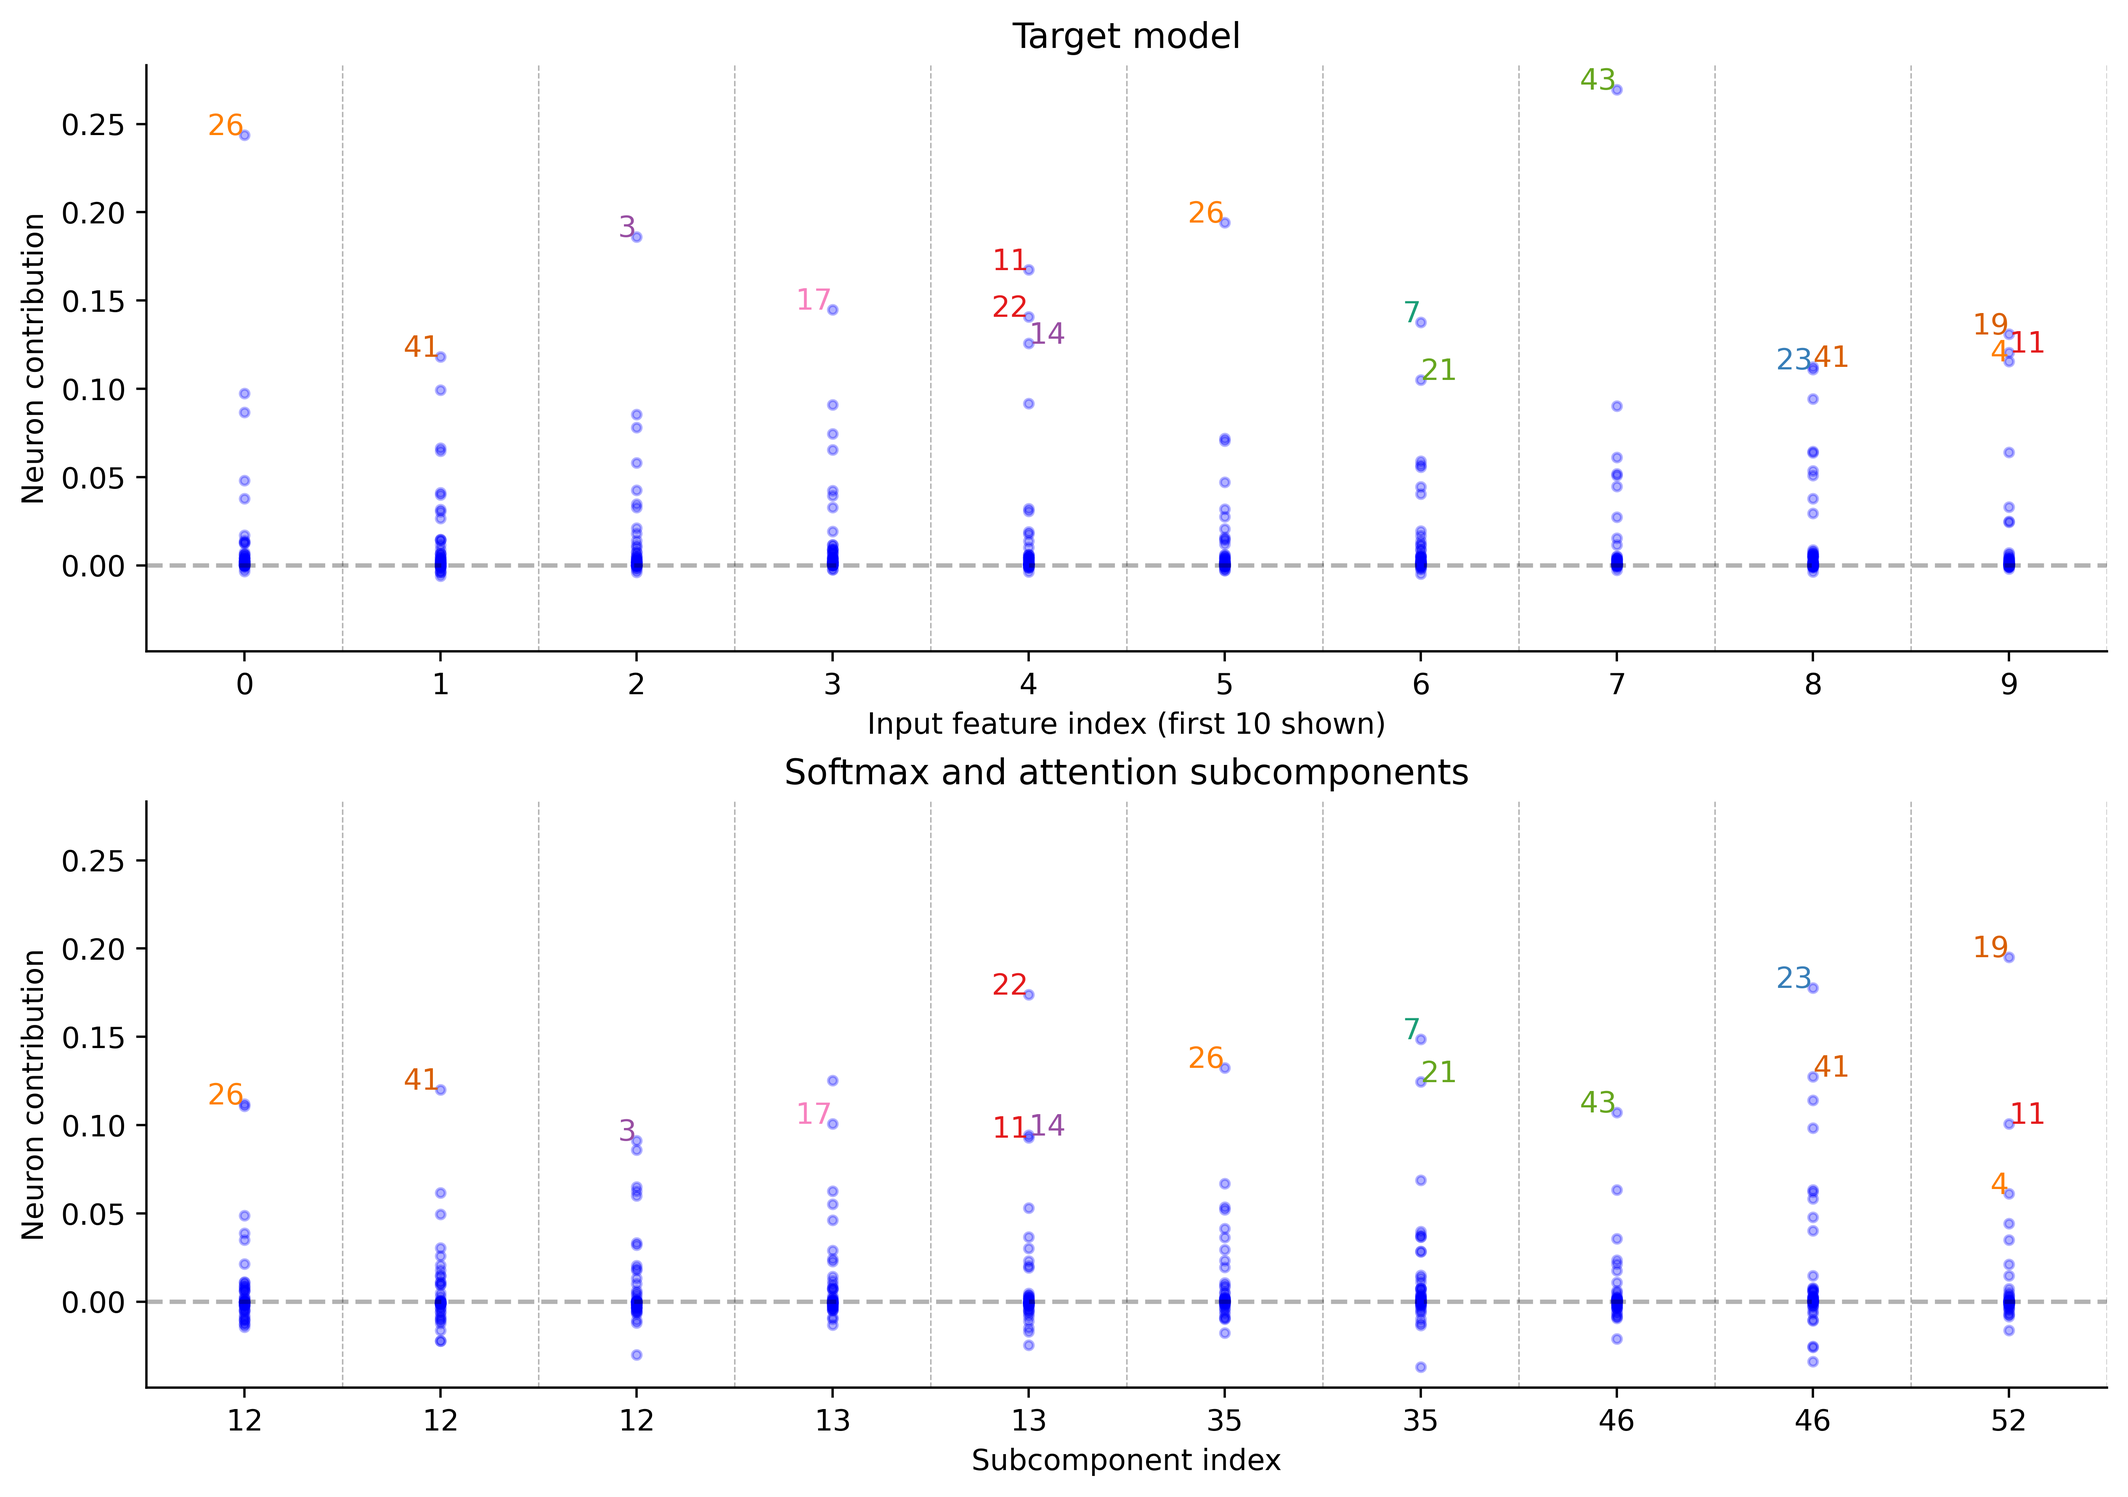
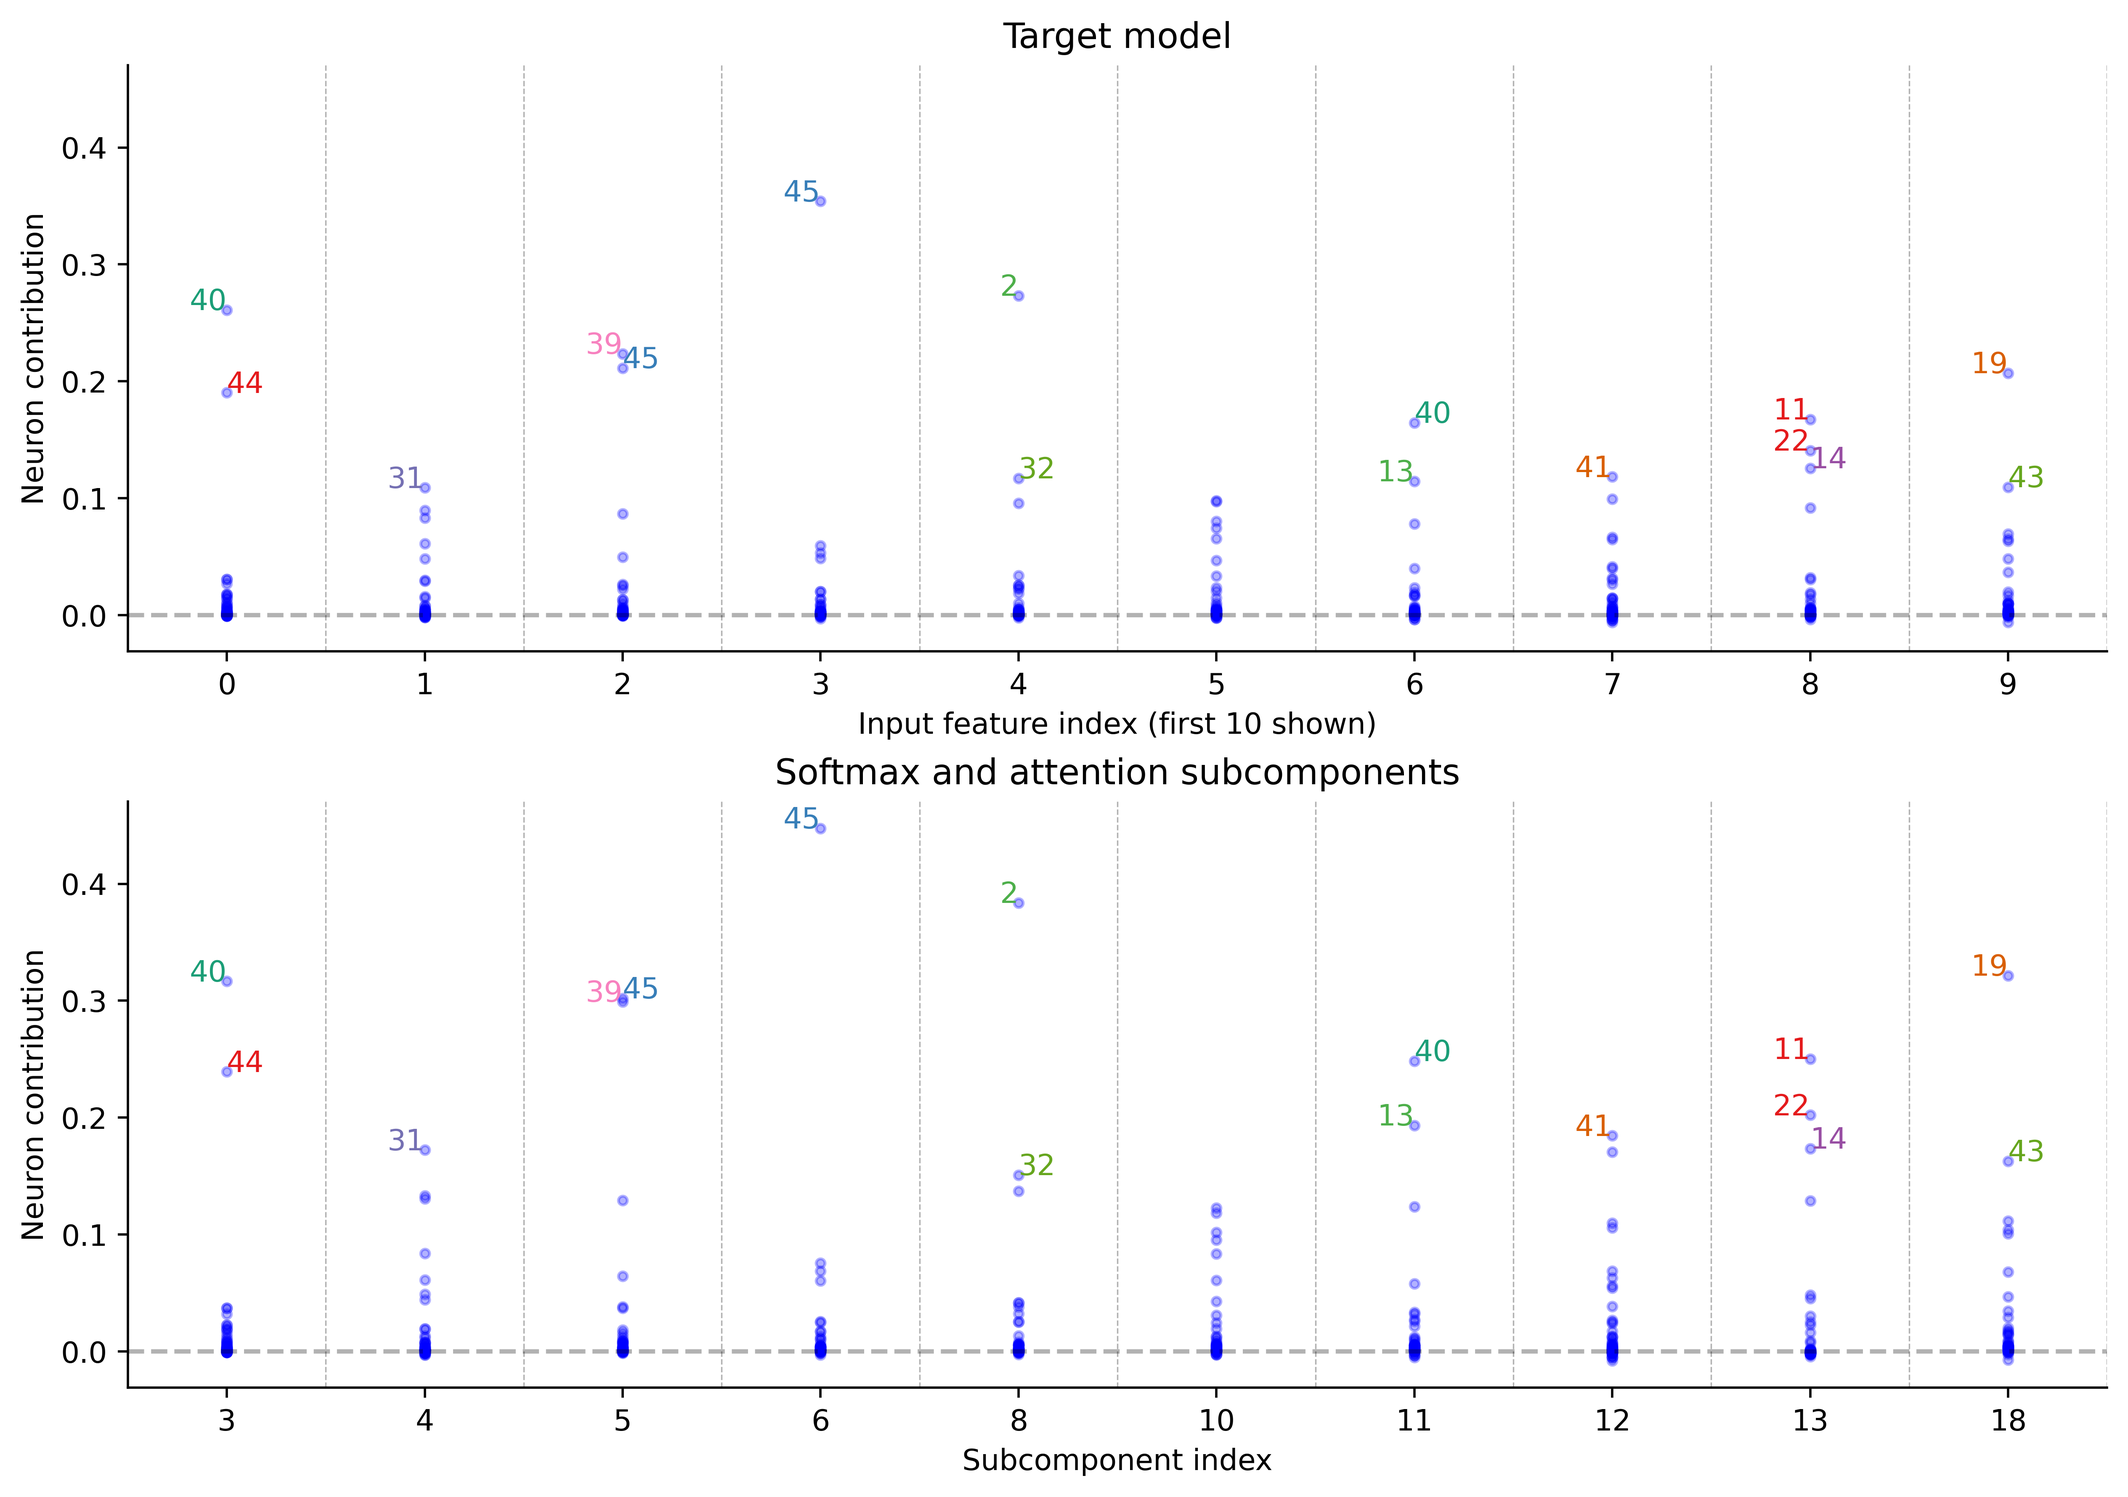
a

diff --git a/spd/experiments/resid_mlp/resid_mlp_interp.py b/spd/experiments/resid_mlp/resid_mlp_interp.py
@@ -428,90 +428,6 @@ def compute_spd_weight_neuron_contributions(
     return relu_conns_spd[:, :n_features, :, :]
 
 
-# def plot_spd_feature_contributions_truncated(
-#     components: dict[str, LinearComponent],
-#     target_model: ResidualMLP,
-#     n_features: int | None = 50,
-# ):
-#     n_layers = target_model.config.n_layers
-#     n_features = target_model.config.n_features if n_features is None else n_features
-#     d_mlp = target_model.config.d_mlp
-
-#     # Assert that there are no biases
-#     assert not target_model.config.in_bias and not target_model.config.out_bias, (
-#         "Biases are not supported for these plots"
-#     )
-
-#     # --- Compute neuron contribution tensors ---
-#     relu_conns: Float[Tensor, "n_layers n_features d_mlp"] = (
-#         compute_target_weight_neuron_contributions(
-#             target_model=target_model,
-#             n_features=n_features,
-#         )
-#     )
-
-#     relu_conns_spd: Float[Tensor, "n_layers n_features C d_mlp"] = (
-#         compute_spd_weight_neuron_contributions(
-#             components=components,
-#             target_model=target_model,
-#             n_features=n_features,
-#         )
-#     )
-
-#     max_component_indices = []
-#     for i in range(n_layers):
-#         # For each feature, find the C component with the largest max value over d_mlp
-#         max_component_indices.append(relu_conns_spd[i].max(dim=-1).values.argmax(dim=-1))
-#     # For each feature, use the C values based on the max_component_indices
-#     max_component_contributions: Float[Tensor, "n_layers n_features d_mlp"] = torch.stack(
-#         [
-#             relu_conns_spd[i, torch.arange(n_features), max_component_indices[i], :]
-#             for i in range(n_layers)
-#         ],
-#         dim=0,
-#     )
-
-#     n_rows = 2
-#     fig1, axes1 = plt.subplots(n_rows, 1, figsize=(30, 7), constrained_layout=True)
-#     axes1 = np.atleast_1d(axes1)  # type: ignore
-
-#     labelled_neurons = feature_contribution_plot(
-#         ax=axes1[0],
-#         relu_conns=relu_conns,
-#         n_layers=n_layers,
-#         n_features=n_features,
-#         d_mlp=d_mlp,
-#         legend=True,
-#     )
-#     axes1[0].set_ylabel("Neuron contribution")
-#     axes1[0].set_xlabel(f"Input feature index (first {n_features} shown)")
-#     axes1[0].set_title("Target model")
-#     axes1[0].set_xticks(range(n_features))  # Ensure all xticks have labels
-
-#     feature_contribution_plot(
-#         ax=axes1[1],
-#         relu_conns=max_component_contributions,
-#         n_layers=n_layers,
-#         n_features=n_features,
-#         d_mlp=d_mlp,
-#         pre_labelled_neurons=labelled_neurons,
-#         legend=False,
-#     )
-#     axes1[1].set_ylabel("Neuron contribution")
-#     axes1[1].set_xlabel("Subcomponent index")
-#     axes1[1].set_title("Individual Softmax subcomponents")
-#     axes1[1].set_xticks(range(n_features))
-
-#     # Set the same y-axis limits for both plots
-#     y_min = min(axes1[0].get_ylim()[0], axes1[1].get_ylim()[0])
-#     y_max = max(axes1[0].get_ylim()[1], axes1[1].get_ylim()[1])
-#     axes1[0].set_ylim(y_min, y_max)
-#     axes1[1].set_ylim(y_min, y_max)
-
-#     # Label the x axis with the subnets that have the largest neuron for each feature
-#     axes1[1].set_xticklabels(max_component_indices[0].tolist())  # Labels are the subnet indices
-
-#     return fig1
 
 def plot_spd_feature_contributions_truncated(
     components: dict[str, LinearComponent],
@@ -526,9 +442,6 @@ def plot_spd_feature_contributions_truncated(
         "Biases are not supported for these plots"
     )
 
-    # =========================================================
-    # ALWAYS COMPUTE ON FULL FEATURE SPACE
-    # =========================================================
     relu_conns: Float[Tensor, "n_layers N d_mlp"] = (
         compute_target_weight_neuron_contributions(
             target_model=target_model,
@@ -553,9 +466,6 @@ def plot_spd_feature_contributions_truncated(
 
     max_component_indices = torch.stack(max_component_indices, dim=0)  # [layers, N]
 
-    # =========================================================
-    # OPTIONAL: KEEP ONLY DUPLICATE COMPONENT FEATURES
-    # =========================================================
     if only_duplicate_pairs:
         comps = max_component_indices[0]  # reference layer
 
@@ -568,9 +478,7 @@ def plot_spd_feature_contributions_truncated(
         relu_conns_spd = relu_conns_spd[:, mask]
         max_component_indices = max_component_indices[:, mask]
 
-    # =========================================================
-    # CLEAN SORT: GROUP BY COMPONENT ID (NO MIXED KEYS)
-    # =========================================================
+
     comps = max_component_indices[0]
     perm = torch.argsort(comps, stable=True)
 
@@ -578,9 +486,7 @@ def plot_spd_feature_contributions_truncated(
     relu_conns_spd = relu_conns_spd[:, perm]
     max_component_indices = max_component_indices[:, perm]
 
-    # =========================================================
-    # FINAL: TRUNCATE ONLY FOR PLOTTING
-    # =========================================================
+
     N = relu_conns.shape[1]
     k = min(n_features, N)
 
@@ -588,9 +494,6 @@ def plot_spd_feature_contributions_truncated(
     relu_conns_spd = relu_conns_spd[:, :k]
     max_component_indices = max_component_indices[:, :k]
 
-    # =========================================================
-    # EXTRACT SPD CONTRIBUTIONS
-    # =========================================================
     idx = torch.arange(k, device=relu_conns.device)
 
     max_component_contributions: Float[Tensor, "n_layers k d_mlp"] = torch.stack(
@@ -601,9 +504,6 @@ def plot_spd_feature_contributions_truncated(
         dim=0,
     )
 
-    # =========================================================
-    # PLOTTING
-    # =========================================================
     fig1, axes1 = plt.subplots(2, 1, figsize=(10, 7), constrained_layout=True)
     axes1 = np.atleast_1d(axes1)
 
@@ -813,54 +713,6 @@ def plot_subcomponent_norms(model, save_path=None):
     if save_path:
         plt.savefig(save_path)
 
-def plot_subcomponent_cosine_similarities(model, top_k=100, save_path=None):
-    """Cosine similarity matrices for V (input side, = A) and U (output side, = B)
-    across the top_k highest-norm subcomponents.
-    """
-    components = {
-        k.removeprefix("components.").replace("-", "."): v
-        for k, v in model.components.items() if isinstance(v, LinearComponent)
-    }
-    layer_names = sorted(components.keys())
-    n_layers = len(layer_names)
-
-    fig, axes = plt.subplots(2, n_layers, figsize=(6 * n_layers, 11), squeeze=False)
-
-    with torch.no_grad():
-        for i, name in enumerate(layer_names):
-            A = components[name].A  # V (input side), [d_in, C, K]
-            B = components[name].B  # U (output side), [C, K, d_out]
-
-            W_full = einops.einsum(A, B, "d_in C K, C K d_out -> C d_in d_out")
-            norms = W_full.flatten(1).norm(dim=-1)
-            top_idx = norms.argsort(descending=True)[:top_k]
-
-            V = A.permute(1, 0, 2).reshape(A.shape[1], -1)[top_idx]  # [top_k, d_in * K]
-            U = B.reshape(B.shape[0], -1)[top_idx]                    # [top_k, K * d_out]
-
-            V_norm = V / (V.norm(dim=-1, keepdim=True) + 1e-12)
-            U_norm = U / (U.norm(dim=-1, keepdim=True) + 1e-12)
-
-            cos_V = (V_norm @ V_norm.T).cpu().numpy()
-            cos_U = (U_norm @ U_norm.T).cpu().numpy()
-
-            for ax, mat, label in [(axes[0, i], cos_V, "V"),
-                                   (axes[1, i], cos_U, "U")]:
-                im = ax.imshow(mat, cmap="RdBu_r", vmin=-1, vmax=1, aspect="auto")
-                ax.set_title(f"{name} - cos sim {label}")
-                ax.set_xlabel("Subcomponent")
-                ax.set_ylabel("Subcomponent")
-                plt.colorbar(im, ax=ax, fraction=0.046, pad=0.04)
-
-    plt.tight_layout()
-    if save_path:
-        fig.savefig(save_path, bbox_inches="tight", dpi=200)
-        print(f"Saved to {save_path}")
-    return fig
-
-
-
-
 def main():
     out_dir = REPO_ROOT / "spd/experiments/resid_mlp/out/figures/"
     out_dir.mkdir(parents=True, exist_ok=True)
@@ -869,7 +721,8 @@ def main():
 
     paths: list[str] = [
         #"wandb:spd-spd_experiments_resid_mlp/runs/i99i4r9r",  #atleast_zero
-        "wandb:spd-spd_experiments_resid_mlp/runs/p13u9kge",  #exactly_one active
+        #"wandb:spd-spd_experiments_resid_mlp/runs/p13u9kge",  #exactly_one active
+        "wandb:knsoe24-syddansk-universitetsforlag-university-press-of-/Thesis runs/runs/1x3kncu2"
         #"wandb:spd-spd_experiments_resid_mlp/runs/2q4sjh5q",
     ]
     for path in paths:
@@ -892,7 +745,7 @@ def main():
             components=components,
             target_model=target_model,
             n_features=10,
-            only_duplicate_pairs=True
+            only_duplicate_pairs=False
         )
         fig.savefig(
             out_dir / f"resid_mlp_weights_{n_layers}layers_{wandb_id}.png",
@@ -915,11 +768,6 @@ def main():
         print(
             f"Saved figure to {out_dir / f'neuron_contribution_pairs_{n_layers}layers_{wandb_id}.png'}"
         )
-
-        plot_subcomponent_cosine_similarities(
-        model,
-        save_path=str(out_dir / f"cosine_similarities_{n_layers}layers_{wandb_id}.png"),
-    )
 
         model = ComponentModel.from_pretrained(path)[0].to(device)
         plot_subcomponent_norms(

diff --git a/spd/losses.py b/spd/losses.py
@@ -102,25 +102,18 @@ def calc_schatten_loss(
 
 
 
+def entropy(probs: Float[Tensor, "... C"], eps: float = 1e-9) -> Float[Tensor, "..."]:
+    """Entropy over the last (channel) dimension."""
+    return -(probs * (probs + eps).log()).sum(dim=-1)
 
-def entropy(g, eps=1e-9):
-    
-    return -(g * (g + eps).log()).sum(dim=-1)
 
 def calc_importance_minimality_loss_entropy(
     ci_upper_leaky: dict[str, Float[Tensor, "... C"]],
-    pnorm: float,
 ) -> Float[Tensor, ""]:
+    """Mean over batch dims of the total per-layer entropy."""
+    per_layer = torch.stack([entropy(layer) for layer in ci_upper_leaky.values()])
+    return per_layer.sum(dim=0).mean()
 
-    total_loss = torch.zeros_like(next(iter(ci_upper_leaky.values()))[..., 0])
-
-    for layer_ci_upper_leaky in ci_upper_leaky.values():
-        # entropy over C
-        layer_entropy = entropy(layer_ci_upper_leaky)
-
-        total_loss = total_loss + layer_entropy
-
-    return total_loss.mean()
 
 def calc_masked_recon_layerwise_loss(
     model: ComponentModel,
@@ -281,13 +274,6 @@ def calc_ce_losses(
 
 
     
-def load_balance_loss(causal_importances):
-    loss = 0
-    for ci in causal_importances.values():
-        mean_per_component = ci.mean(dim=tuple(range(ci.ndim - 1)))
-        loss = loss + (mean_per_component ** 2).sum()
-    return loss
-
 def calculate_losses(
     model: ComponentModel,
     batch: Int[Tensor, "..."],
@@ -388,14 +374,9 @@ def calculate_losses(
         total_loss += config.stochastic_recon_layerwise_coeff * stochastic_recon_layerwise_loss
         loss_terms["loss/stochastic_recon_layerwise"] = stochastic_recon_layerwise_loss.item()
 
-    # Importance minimality loss
-    # importance_minimality_loss = calc_importance_minimality_loss(
-    #     ci_upper_leaky=causal_importances_upper_leaky, pnorm=config.pnorm
-    # )
-
 
     importance_minimality_loss = calc_importance_minimality_loss_entropy(
-        ci_upper_leaky=causal_importances_upper_leaky, pnorm=config.pnorm
+        ci_upper_leaky=causal_importances_upper_leaky
     )
     total_loss += config.importance_minimality_coeff * importance_minimality_loss
     loss_terms["loss/importance_minimality"] = importance_minimality_loss.item()

diff --git a/spd/models/component_utils.py b/spd/models/component_utils.py
@@ -126,7 +126,6 @@ def calc_causal_importances(
     As: Mapping[str, Float[Tensor, "d_in C"]],
     gates: nn.ModuleDict,
     detach_inputs: bool = False,
-    temperature: float = 1.0,
 ) -> tuple[dict[str, Float[Tensor, "... C"]], dict[str, Float[Tensor, "... C"]]]:
 
     causal_importances = {}
@@ -140,16 +139,15 @@ def calc_causal_importances(
             A = As[param_name]
             component_act_k = einops.einsum(acts, A, "... d_in, d_in C k -> ... C k")
 
-        gate_feats = component_act_k.detach() if detach_inputs else component_act_k
-        # gate_feats has shape (batch, C, k)
+        gate_feats = component_act_k.detach() if detach_inputs else component_act_k # gate_feats has shape (batch, C, k)
 
         # Run this layer's attention only over its own components
         gate_key = param_name.replace(".", "-")
-        layer_out = gates[gate_key].forward(gate_feats).squeeze(-1)
-        # layer_out has shape (batch, C)
+        gate_out = gates[gate_key].forward(gate_feats).squeeze(-1) #Transformer returns (batch, C, 1)
       
-        causal_importances[param_name] = torch.softmax(layer_out / temperature, dim=-1)
-        causal_importances_upper_leaky[param_name] = torch.softmax(layer_out / temperature, dim=-1)
+        importance = torch.softmax(gate_out, dim=-1)
+        causal_importances[param_name] = importance
+        causal_importances_upper_leaky[param_name] = importance
  
     return causal_importances, causal_importances_upper_leaky
 

diff --git a/spd/run_spd.py b/spd/run_spd.py
@@ -173,10 +173,7 @@ def optimize(
 
         #T = get_temperature(step, config.steps, t_start=1.5, t_end=0.3)
         causal_importances, causal_importances_upper_leaky = calc_causal_importances(
-            pre_weight_acts=pre_weight_acts, As=As, gates=model.gates, detach_inputs=False,
-            temperature=config.temperature,
-        )
-        log_data["temperature"] = config.temperature
+            pre_weight_acts=pre_weight_acts, As=As, gates=model.gates, detach_inputs=False        )
 
         for layer_name, ci in causal_importances.items():
             alive_components[layer_name] = alive_components[layer_name] | (ci > 0.1).any(dim=(0, 1))
@@ -202,7 +199,6 @@ def optimize(
                 tqdm.write(f"--- Step {step} ---")
                 tqdm.write(f"LR: {step_lr:.6f}")
                 tqdm.write(f"Total Loss: {log_data['loss/total']:.7f}")
-                tqdm.write(f"Temperature: {log_data['temperature']:.7f}")
                 for name, value in loss_terms.items():
                     tqdm.write(f"{name}: {value:.7f}")
 

diff --git a/spd/models/components.py b/spd/models/components.py
@@ -2,14 +2,7 @@ import einops
 import torch
 from jaxtyping import Float
 from torch import Tensor, nn
-from torch.nn import functional as F
 from spd.module_utils import init_param_
-
-
-
-import torch
-import torch.nn as nn
-import torch.nn.functional as F
 
 
 class Transformer(nn.Module):
@@ -34,7 +27,6 @@ class Transformer(nn.Module):
             nn.Linear(hidden_channels * 4, hidden_channels),
         )
 
-        # Project to output dim
         self.out_proj = nn.Linear(hidden_channels, out_channels)
 
     def forward(self, x):

diff --git a/spd/models/component_model.py b/spd/models/component_model.py
@@ -283,7 +283,6 @@ def init_As_and_Bs_(
         # Make A and B have unit norm in the d_in and d_out dimensions
         A.data[:] = torch.randn_like(A.data)
         B.data[:] = torch.randn_like(B.data)
-        #Changed from -2, -1 to 0,1 when i added k
         A.data[:] = A.data / A.data.norm(dim=0, keepdim=True)
         B.data[:] = B.data / B.data.norm(dim=-1, keepdim=True)
 
